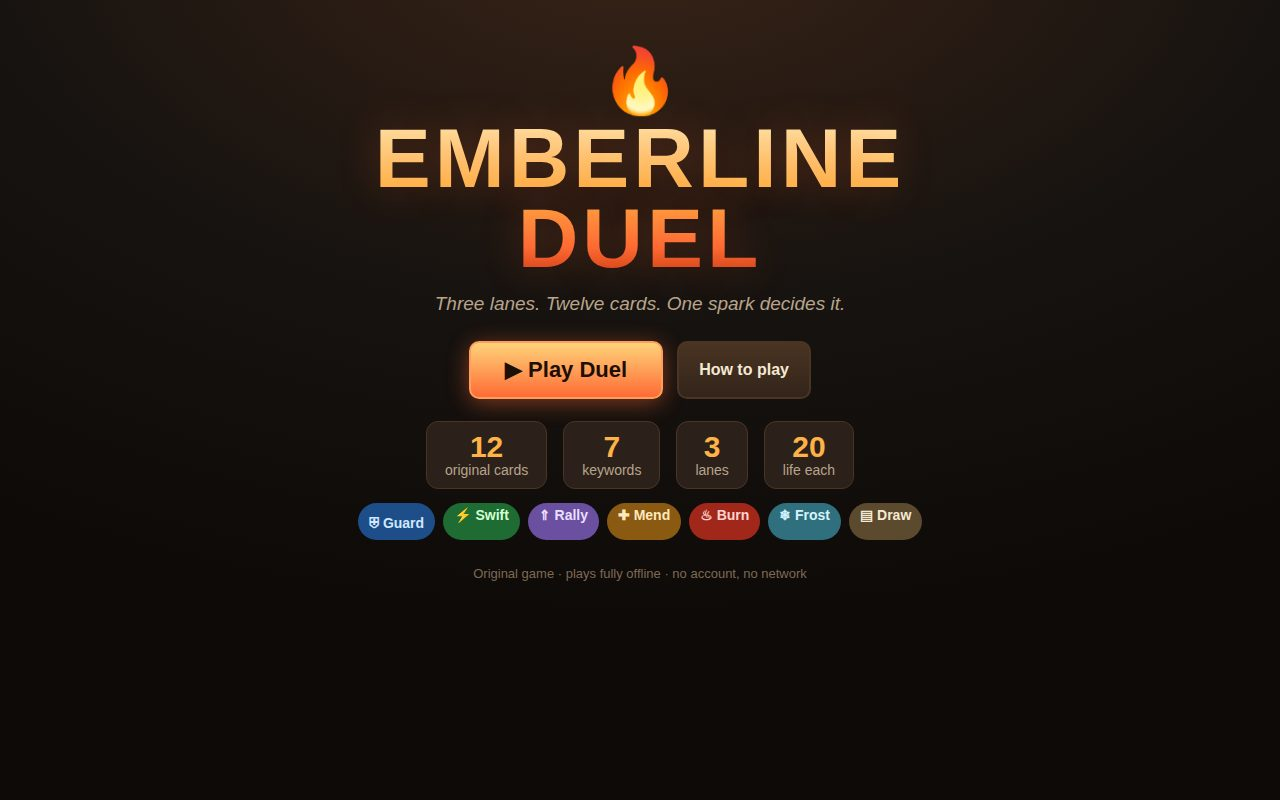
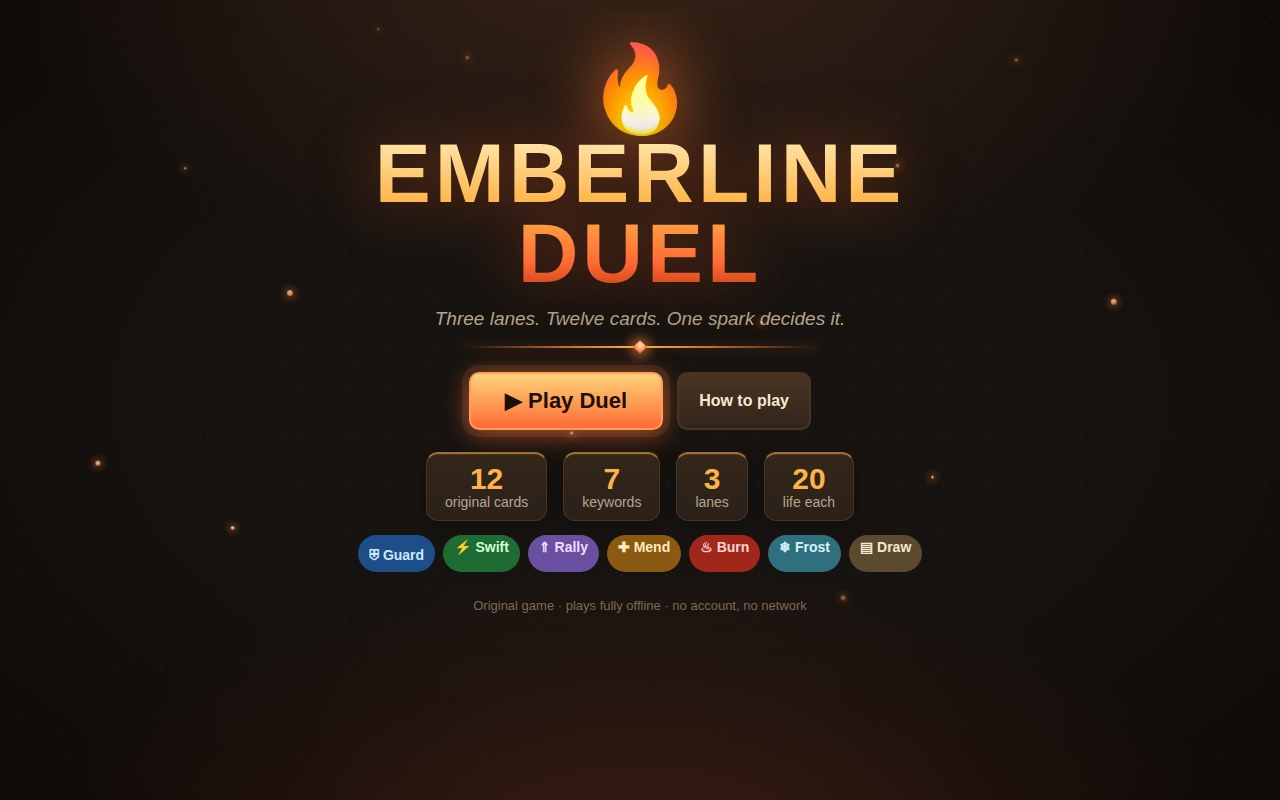
v2 visual polish: life bars + ember pips, framed lanes, keyword card glows, ember title field
Screenshot-only upgrade for the pairwise AI judge: HUD life bars and
ember pips read at a glance, board lanes are solid framed rows with
per-row tints, board creatures glow in their keyword colour, card
faces gain accent strips and richer art, the title screen gets a
rising ember spark field, a glowing ember-line flourish and a pulsing
Play button, and the win/loss screens get themed ambient glows.
No rules, balance, cards or features changed; fully offline.

diff --git a/game/css/style.css b/game/css/style.css
@@ -20,7 +20,18 @@
 }
 html, body { height: 100%; }
 body {
-  background: radial-gradient(1200px 700px at 50% -10%, #3a2417 0%, var(--felt) 55%, #0e0a08 100%);
+  /* Layered hearth atmosphere: warm crown glow up top, a coal-bed glow
+     rising from the bottom edge, and a faint field of ember flecks over
+     the felt — all gradients, no images, no network. */
+  background:
+    radial-gradient(1200px 700px at 50% -10%, #3a2417 0%, transparent 55%),
+    radial-gradient(900px 480px at 50% 112%, rgba(255, 107, 53, .20) 0%, rgba(201, 59, 18, .07) 45%, transparent 70%),
+    radial-gradient(rgba(255, 179, 71, .05) 1px, transparent 1.6px),
+    radial-gradient(rgba(255, 140, 66, .035) 1px, transparent 1.6px),
+    radial-gradient(ellipse at center, var(--felt) 40%, #0e0a08 100%);
+  background-size: auto, auto, 46px 46px, 74px 74px, auto;
+  background-position: 0 0, 0 0, 0 0, 23px 31px, 0 0;
+  background-color: var(--felt);
   color: var(--cream);
   font-family: "Trebuchet MS", "Segoe UI", Verdana, sans-serif;
   overflow-x: hidden;
@@ -43,25 +54,62 @@ body {
   font-size: 22px; padding: 14px 34px; color: #1d0f05;
   background: linear-gradient(180deg, #ffd27a, var(--ember));
   border-color: #ff9d5c; box-shadow: 0 4px 22px rgba(255,107,53,.45);
+  animation: btnPulse 2.4s ease-in-out infinite;
+}
+@keyframes btnPulse {
+  0%, 100% { box-shadow: 0 4px 22px rgba(255,107,53,.45), 0 0 0 0 rgba(255, 157, 92, .45); }
+  50% { box-shadow: 0 4px 26px rgba(255,107,53,.65), 0 0 0 9px rgba(255, 157, 92, 0); }
 }
 .btn-end {
   font-size: 18px; padding: 10px 22px; color: #1d0f05;
   background: linear-gradient(180deg, #ffd27a, var(--ember)); border-color: #ff9d5c;
+  box-shadow: 0 4px 18px rgba(255,107,53,.40);
 }
 .btn-end:disabled { filter: grayscale(.8) brightness(.6); cursor: not-allowed; transform: none; box-shadow: none; }
 .btn-small { font-size: 13px; padding: 6px 10px; }
 
 /* ---------- title screen ---------- */
-#screen-title { text-align: center; padding-top: 34px; }
-.title-ember { font-size: 64px; animation: flicker 1.6s ease-in-out infinite; }
-@keyframes flicker { 0%,100% { transform: scale(1); filter: brightness(1); } 50% { transform: scale(1.12); filter: brightness(1.35); } }
+#screen-title { text-align: center; padding-top: 34px; position: relative; overflow: hidden; }
+/* rising ember sparks over the title — pure CSS, each mote on its own
+   track/duration/delay (negative delays so the field is already alive) */
+.ember-field { position: absolute; inset: 0; pointer-events: none; }
+.ember-field i {
+  position: absolute; bottom: -14px; left: var(--x); width: var(--s); height: var(--s);
+  border-radius: 50%;
+  background: radial-gradient(circle at 40% 35%, #ffe9b0, var(--ember) 78%);
+  box-shadow: 0 0 8px 2px rgba(255, 140, 66, .55);
+  opacity: 0; animation: sparkRise var(--t) linear infinite; animation-delay: var(--d);
+}
+@keyframes sparkRise {
+  0% { transform: translate3d(0, 0, 0); opacity: 0; }
+  8% { opacity: .95; }
+  55% { transform: translate3d(10px, -46vh, 0); opacity: .8; }
+  100% { transform: translate3d(-8px, -92vh, 0); opacity: 0; }
+}
+.title-ember {
+  font-size: 76px; animation: flicker 1.6s ease-in-out infinite;
+  filter: drop-shadow(0 0 22px rgba(255, 120, 50, .65));
+}
+@keyframes flicker { 0%,100% { transform: scale(1); filter: brightness(1) drop-shadow(0 0 18px rgba(255,120,50,.55)); } 50% { transform: scale(1.12); filter: brightness(1.35) drop-shadow(0 0 30px rgba(255,120,50,.8)); } }
 .game-title {
   font-size: 84px; line-height: .95; letter-spacing: 4px; font-weight: 900;
   background: linear-gradient(180deg, #ffe9b0, var(--gold) 45%, var(--ember) 80%, var(--ember-deep));
   -webkit-background-clip: text; background-clip: text; color: transparent;
-  text-shadow: 0 0 42px rgba(255,107,53,.25);
+  filter: drop-shadow(0 0 26px rgba(255, 107, 53, .45)) drop-shadow(0 5px 20px rgba(0,0,0,.55));
 }
-.tagline { font-size: 19px; color: var(--muted); margin: 14px 0 26px; font-style: italic; }
+.tagline { font-size: 19px; color: var(--muted); margin: 14px 0 16px; font-style: italic; }
+/* the emberline itself: a glowing seam with a spark at its heart */
+.ember-line {
+  width: 360px; max-width: 70%; height: 2px; margin: 0 auto 24px; position: relative;
+  background: linear-gradient(90deg, transparent, rgba(255, 140, 66, .75) 30%, var(--gold) 50%, rgba(255, 140, 66, .75) 70%, transparent);
+  box-shadow: 0 0 12px rgba(255, 107, 53, .35);
+}
+.ember-line span {
+  position: absolute; left: 50%; top: 50%; width: 10px; height: 10px;
+  transform: translate(-50%, -50%) rotate(45deg);
+  background: radial-gradient(circle at 40% 35%, #ffe9b0, var(--ember) 80%);
+  box-shadow: 0 0 12px 3px rgba(255, 140, 66, .65);
+}
 .title-buttons { display: flex; gap: 14px; justify-content: center; margin-bottom: 22px; }
 .howto {
   max-width: 760px; margin: 0 auto 18px; text-align: left;
@@ -72,8 +120,10 @@ body {
 .best-line { color: var(--gold); font-weight: 700; font-size: 17px; margin-bottom: 10px; }
 .title-features { display: flex; gap: 16px; justify-content: center; margin: 6px 0 14px; flex-wrap: wrap; }
 .feature {
-  background: var(--panel); border: 1px solid var(--line); border-radius: 12px;
+  background: linear-gradient(180deg, #342619, var(--panel));
+  border: 1px solid var(--line); border-top: 2px solid rgba(255, 179, 71, .55); border-radius: 12px;
   padding: 10px 18px; font-size: 14px; color: var(--muted);
+  box-shadow: 0 4px 14px rgba(0,0,0,.35), inset 0 1px 0 rgba(255, 230, 180, .08);
 }
 .feature-num { display: block; font-size: 30px; font-weight: 900; color: var(--gold); line-height: 1; }
 .title-kws { display: flex; gap: 8px; justify-content: center; flex-wrap: wrap; margin-bottom: 18px; }
@@ -115,6 +165,31 @@ body {
 @keyframes pulse { 50% { transform: scale(1.12); } }
 .deck-row { font-size: 13px; color: var(--muted); margin-top: 2px; }
 .ember { color: var(--gold); font-weight: 900; }
+/* life bar under the big number — reads at a glance, drains left to right */
+.life-bar {
+  height: 8px; border-radius: 5px; margin-top: 5px; overflow: hidden;
+  background: rgba(0,0,0,.5); border: 1px solid rgba(255,255,255,.10);
+  box-shadow: inset 0 1px 3px rgba(0,0,0,.7);
+}
+.life-bar i {
+  display: block; height: 100%; width: 100%; border-radius: 5px;
+  transition: width .45s ease;
+}
+#ai-life-fill { background: linear-gradient(90deg, #2f6fb8, #7ec8ff); box-shadow: 0 0 8px rgba(90,169,230,.55); }
+#you-life-fill { background: linear-gradient(90deg, var(--ember-deep), var(--ember) 55%, var(--gold)); box-shadow: 0 0 8px rgba(255,140,66,.55); }
+.life-bar.low i { background: linear-gradient(90deg, #8a1f1f, var(--red)) !important; box-shadow: 0 0 8px rgba(255,90,90,.6); }
+/* ember pips: one dot per ember crystal — filled = ready, hollow = banked */
+.ember-pips { display: flex; gap: 4px; margin-top: 5px; }
+.you-panel .ember-pips { justify-content: flex-end; }
+.ember-pips .pip {
+  width: 11px; height: 11px; border-radius: 50%;
+  border: 1px solid rgba(255, 179, 71, .45); background: rgba(0,0,0,.35);
+}
+.ember-pips .pip.on {
+  background: radial-gradient(circle at 35% 30%, #ffe9b0, var(--ember) 75%);
+  border-color: #ffcf8a; box-shadow: 0 0 7px rgba(255, 140, 66, .75);
+}
+.ember-pips.small .pip { width: 8px; height: 8px; }
 .mini-hand { display: flex; gap: 3px; }
 .mini-card {
   width: 22px; height: 32px; border-radius: 4px; border: 1px solid #7a5a2e;
@@ -130,36 +205,74 @@ body {
 .phase-line { font-size: 13px; color: var(--muted); text-align: center; min-height: 18px; }
 
 /* ---------- board / lanes ---------- */
-.board { position: relative; display: flex; gap: 12px; }
+.board {
+  position: relative; display: flex; gap: 12px;
+  background:
+    radial-gradient(700px 300px at 50% 118%, rgba(255, 107, 53, .13), transparent 70%),
+    linear-gradient(180deg, rgba(43, 33, 26, .55), rgba(14, 10, 8, .35));
+  border: 1px solid #3a2a1c; border-radius: 20px; padding: 10px;
+  box-shadow: 0 10px 30px rgba(0,0,0,.45), inset 0 1px 0 rgba(255, 217, 160, .06);
+}
 .lane {
-  flex: 1; border: 2px dashed #3d2b1d; border-radius: 16px; padding: 8px;
-  background: linear-gradient(180deg, rgba(255,107,53,.05), rgba(0,0,0,.15));
+  flex: 1; border: 2px solid #4a3423; border-top: 3px solid #7a4a22; border-radius: 16px; padding: 8px;
+  background: linear-gradient(180deg, rgba(255,107,53,.07), rgba(0,0,0,.28));
+  box-shadow: inset 0 0 24px rgba(0,0,0,.35), inset 0 1px 0 rgba(255, 217, 160, .07);
   transition: border-color .15s, background .15s;
 }
+/* each row keeps its own warmth: ember, cinder, ash */
+.lane[data-lane="1"] { border-top-color: #8a3b1e; background: linear-gradient(180deg, rgba(224,82,58,.08), rgba(0,0,0,.28)); }
+.lane[data-lane="2"] { border-top-color: #6e6258; background: linear-gradient(180deg, rgba(184,165,140,.06), rgba(0,0,0,.30)); }
 .lane.targetable { border-color: var(--gold); background: rgba(255,179,71,.14); cursor: pointer; animation: laneGlow 1s ease-in-out infinite; }
 @keyframes laneGlow { 50% { box-shadow: 0 0 18px rgba(255,179,71,.35) inset; } }
-.lane-label { text-align: center; font-size: 12px; letter-spacing: 2px; font-weight: 800; color: var(--muted); margin-bottom: 6px; }
-.lane-sub { color: #7d6a55; font-weight: 400; letter-spacing: 0; }
+.lane-label { text-align: center; font-size: 12px; letter-spacing: 2px; font-weight: 800; color: #d8c8ae; margin-bottom: 6px; }
+.lane-label::before { content: "◆ "; color: var(--ember); font-size: 9px; vertical-align: 2px; }
+.lane-sub { color: #96805f; font-weight: 400; letter-spacing: 0; }
 .lane-slots { display: flex; flex-direction: column; gap: 8px; }
 .slot {
-  min-height: 148px; border-radius: 12px; display: flex; align-items: center; justify-content: center;
+  position: relative; min-height: 148px; border-radius: 12px; display: flex; align-items: center; justify-content: center;
   background: rgba(0,0,0,.22); border: 1px solid rgba(255,255,255,.05);
 }
-.slot.empty::after { content: "· empty ·"; color: #5c4a38; font-size: 13px; font-style: italic; }
+/* an empty slot is a summoning circle waiting for a creature, not a void */
+.slot.empty {
+  background: radial-gradient(ellipse 62% 58% at 50% 50%, rgba(255, 140, 66, .13), rgba(0,0,0,.28) 72%);
+  border: 1px solid rgba(255, 179, 71, .10);
+}
+.slot.empty::before {
+  content: ""; position: absolute; width: 76px; height: 76px; border-radius: 50%;
+  border: 2px dashed rgba(255, 179, 71, .28);
+  box-shadow: 0 0 18px rgba(255, 107, 53, .12) inset, 0 0 14px rgba(255, 107, 53, .08);
+}
+.slot.empty::after { content: "empty"; color: #96805f; font-size: 12px; font-style: italic; letter-spacing: 3px; position: relative; }
 
 /* ---------- cards ---------- */
 .card {
   position: relative; width: var(--card-w); height: var(--card-h);
   border-radius: 12px; padding: 8px; cursor: pointer; user-select: none;
-  background: linear-gradient(165deg, #3d2c1e, #241a12 70%);
-  border: 2px solid #6b4a2a; box-shadow: 0 4px 12px rgba(0,0,0,.55);
+  background: linear-gradient(165deg, #463322, #241a12 70%);
+  border: 2px solid #6b4a2a;
+  box-shadow: 0 4px 12px rgba(0,0,0,.55), inset 0 1px 0 rgba(255, 230, 180, .16), inset 0 -10px 18px rgba(0,0,0,.35);
   transition: transform .18s ease, box-shadow .18s ease, filter .18s;
   animation: cardIn .3s ease-out;
 }
+/* ember accent strip along the top edge, tinted by the card's keyword */
+.card::before {
+  content: ""; position: absolute; top: 4px; left: 12px; right: 12px; height: 3px; border-radius: 2px;
+  background: linear-gradient(90deg, transparent, var(--ember) 30%, var(--gold) 50%, var(--ember) 70%, transparent);
+  opacity: .85;
+}
+.card.k-guard::before { background: linear-gradient(90deg, transparent, #4a86c8, #9cc8ff, #4a86c8, transparent); }
+.card.k-swift::before { background: linear-gradient(90deg, transparent, #5cb85c, #b2f0b2, #5cb85c, transparent); }
+.card.k-rally::before { background: linear-gradient(90deg, transparent, #9b7ed9, #d3c2ff, #9b7ed9, transparent); }
+.card.k-mend::before { background: linear-gradient(90deg, transparent, #d9a441, #ffe1a1, #d9a441, transparent); }
+.card.k-burn::before { background: linear-gradient(90deg, transparent, #e0523a, #ffb0a0, #e0523a, transparent); }
+.card.k-frost::before { background: linear-gradient(90deg, transparent, #5fc4d6, #c8f4ff, #5fc4d6, transparent); }
+.card.k-draw::before { background: linear-gradient(90deg, transparent, #b8a58c, #f5e9d3, #b8a58c, transparent); }
 @keyframes cardIn { from { opacity: 0; transform: translateY(16px) scale(.92); } to { opacity: 1; transform: none; } }
 .card .art {
   height: 64px; border-radius: 8px; display: flex; align-items: center; justify-content: center;
-  font-size: 40px; margin-bottom: 6px; border: 1px solid rgba(255,255,255,.14);
+  font-size: 40px; margin-bottom: 6px; border: 1px solid rgba(255,255,255,.20);
+  box-shadow: inset 0 1px 0 rgba(255,255,255,.22), inset 0 -14px 22px rgba(0,0,0,.38), inset 0 0 18px rgba(255, 190, 100, .07);
+  text-shadow: 0 3px 12px rgba(0,0,0,.55);
 }
 .card .name { font-size: 14px; font-weight: 900; text-align: center; line-height: 1.1; min-height: 30px; }
 .card .kw-line { text-align: center; margin: 4px 0 2px; min-height: 20px; }
@@ -179,15 +292,24 @@ body {
 .card .hp { right: -9px; background: radial-gradient(circle at 35% 30%, #9be08d, #2e7d32 70%); border-color: #d2ffd2; color: #fff; }
 .card.frozen { filter: saturate(.4) brightness(.75); }
 .card.frozen::after { content: "❄ FROZEN"; position: absolute; top: 44%; left: 0; right: 0; text-align: center; color: #bfefff; font-weight: 900; font-size: 13px; text-shadow: 0 0 6px #000; }
-/* keyword-tinted card frames */
-.card.k-guard { border-color: #4a86c8; } .card.k-guard .art { background: linear-gradient(160deg, #274b73, #16283d); }
-.card.k-swift { border-color: #5cb85c; } .card.k-swift .art { background: linear-gradient(160deg, #2e6b34, #142d18); }
-.card.k-rally { border-color: #9b7ed9; } .card.k-rally .art { background: linear-gradient(160deg, #4b3670, #241a38); }
-.card.k-mend { border-color: #d9a441; } .card.k-mend .art { background: linear-gradient(160deg, #7a5a12, #3d2d08); }
-.card.k-burn { border-color: #e0523a; } .card.k-burn .art { background: linear-gradient(160deg, #7a2418, #3d1008); }
-.card.k-frost { border-color: #5fc4d6; } .card.k-frost .art { background: linear-gradient(160deg, #2f6f7e, #12303a); }
-.card.k-draw { border-color: #b8a58c; } .card.k-draw .art { background: linear-gradient(160deg, #5c4a2f, #2e2415); }
-.card.k-none .art { background: linear-gradient(160deg, #5a3a22, #2e1f12); }
+/* keyword-tinted card frames — art gets a lit top stop so faces read rich,
+   and a creature on the board glows faintly in its keyword colour */
+.card.k-guard { border-color: #4a86c8; } .card.k-guard .art { background: linear-gradient(160deg, #3a6ea8, #274b73 55%, #16283d); }
+.card.k-swift { border-color: #5cb85c; } .card.k-swift .art { background: linear-gradient(160deg, #46a04e, #2e6b34 55%, #142d18); }
+.card.k-rally { border-color: #9b7ed9; } .card.k-rally .art { background: linear-gradient(160deg, #7156ad, #4b3670 55%, #241a38); }
+.card.k-mend { border-color: #d9a441; } .card.k-mend .art { background: linear-gradient(160deg, #b0821f, #7a5a12 55%, #3d2d08); }
+.card.k-burn { border-color: #e0523a; } .card.k-burn .art { background: linear-gradient(160deg, #b23c26, #7a2418 55%, #3d1008); }
+.card.k-frost { border-color: #5fc4d6; } .card.k-frost .art { background: linear-gradient(160deg, #499cae, #2f6f7e 55%, #12303a); }
+.card.k-draw { border-color: #b8a58c; } .card.k-draw .art { background: linear-gradient(160deg, #8a7350, #5c4a2f 55%, #2e2415); }
+.card.k-none .art { background: linear-gradient(160deg, #7d5636, #5a3a22 55%, #2e1f12); }
+.slot .card.k-guard { box-shadow: 0 4px 12px rgba(0,0,0,.55), 0 0 16px rgba(74,134,200,.35); }
+.slot .card.k-swift { box-shadow: 0 4px 12px rgba(0,0,0,.55), 0 0 16px rgba(92,184,92,.35); }
+.slot .card.k-rally { box-shadow: 0 4px 12px rgba(0,0,0,.55), 0 0 16px rgba(155,126,217,.38); }
+.slot .card.k-mend { box-shadow: 0 4px 12px rgba(0,0,0,.55), 0 0 16px rgba(217,164,65,.38); }
+.slot .card.k-burn { box-shadow: 0 4px 12px rgba(0,0,0,.55), 0 0 16px rgba(224,82,58,.42); }
+.slot .card.k-frost { box-shadow: 0 4px 12px rgba(0,0,0,.55), 0 0 16px rgba(95,196,214,.38); }
+.slot .card.k-draw { box-shadow: 0 4px 12px rgba(0,0,0,.55), 0 0 16px rgba(184,165,140,.30); }
+.slot .card.k-none { box-shadow: 0 4px 12px rgba(0,0,0,.55), 0 0 14px rgba(255,140,66,.22); }
 /* hand behaviour */
 .hand .card:hover { transform: translateY(-14px) scale(1.06); box-shadow: 0 12px 24px rgba(0,0,0,.6); z-index: 5; }
 .hand .card.selected { transform: translateY(-18px) scale(1.08); border-color: var(--gold); box-shadow: 0 0 0 3px var(--gold), 0 14px 26px rgba(0,0,0,.65); }
@@ -206,8 +328,11 @@ body {
 .table-foot { display: flex; gap: 14px; margin-top: 12px; align-items: stretch; }
 .hand {
   flex: 1; min-height: 196px; display: flex; gap: 10px; align-items: flex-end; justify-content: center;
-  background: linear-gradient(180deg, rgba(0,0,0,.25), rgba(0,0,0,.05));
-  border: 1px solid var(--line); border-radius: 16px; padding: 12px;
+  background:
+    radial-gradient(600px 120px at 50% 115%, rgba(255, 107, 53, .12), transparent 70%),
+    linear-gradient(180deg, rgba(0,0,0,.25), rgba(0,0,0,.05));
+  border: 1px solid var(--line); border-top: 2px solid rgba(255, 179, 71, .35); border-radius: 16px; padding: 12px;
+  box-shadow: inset 0 10px 22px rgba(0,0,0,.30);
 }
 .hand .empty-hand { color: #7d6a55; font-style: italic; }
 .log-panel {
@@ -233,14 +358,21 @@ body {
 @keyframes floatUp { from { opacity: 1; transform: translateY(0) scale(1); } to { opacity: 0; transform: translateY(-56px) scale(1.25); } }
 
 /* ---------- end screen ---------- */
-#screen-end { text-align: center; padding-top: 60px; position: relative; overflow: hidden; }
+#screen-end { text-align: center; padding-top: 60px; position: relative; overflow: hidden; border-radius: 20px; }
+#screen-end.win { background: radial-gradient(760px 420px at 50% 20%, rgba(255, 179, 71, .17), rgba(255, 107, 53, .05) 55%, transparent 75%); }
+#screen-end.lose { background: radial-gradient(760px 420px at 50% 20%, rgba(255, 90, 90, .10), rgba(60, 20, 16, .05) 55%, transparent 75%); }
 .end-title { font-size: 96px; font-weight: 900; letter-spacing: 6px; }
-#screen-end.win .end-title { color: var(--gold); text-shadow: 0 0 50px rgba(255,179,71,.6); animation: winPop .6s ease-out; }
-#screen-end.lose .end-title { color: var(--red); text-shadow: 0 0 50px rgba(255,90,90,.5); }
+#screen-end.win .end-title { color: var(--gold); text-shadow: 0 0 50px rgba(255,179,71,.6); filter: drop-shadow(0 0 34px rgba(255, 179, 71, .35)); animation: winPop .6s ease-out; }
+#screen-end.lose .end-title { color: var(--red); text-shadow: 0 0 50px rgba(255,90,90,.5); filter: drop-shadow(0 0 26px rgba(255, 90, 90, .28)); }
 @keyframes winPop { 0% { transform: scale(.6); opacity: 0; } 60% { transform: scale(1.12); } 100% { transform: scale(1); opacity: 1; } }
 .end-sub { font-size: 19px; color: var(--muted); margin: 10px 0 28px; }
 .stats { display: flex; gap: 18px; justify-content: center; margin-bottom: 30px; }
-.stat { background: var(--panel); border: 1px solid var(--line); border-radius: 14px; padding: 16px 26px; min-width: 130px; }
+.stat {
+  background: linear-gradient(180deg, #342619, var(--panel));
+  border: 1px solid var(--line); border-top: 2px solid rgba(255, 179, 71, .55); border-radius: 14px;
+  padding: 16px 26px; min-width: 130px;
+  box-shadow: 0 4px 14px rgba(0,0,0,.35), inset 0 1px 0 rgba(255, 230, 180, .08);
+}
 .stat-num { display: block; font-size: 40px; font-weight: 900; color: var(--gold); }
 .stat-label { font-size: 13px; color: var(--muted); letter-spacing: 1px; }
 .confetti { position: absolute; inset: 0; pointer-events: none; overflow: hidden; }

diff --git a/game/index.html b/game/index.html
@@ -11,9 +11,20 @@
 
   <!-- ============ TITLE SCREEN ============ -->
   <section id="screen-title" class="screen">
+    <div class="ember-field" aria-hidden="true">
+      <i style="--x:6%;--s:5px;--t:8.5s;--d:-1.2s"></i><i style="--x:13%;--s:3px;--t:11s;--d:-6.4s"></i>
+      <i style="--x:21%;--s:6px;--t:9.4s;--d:-3.8s"></i><i style="--x:29%;--s:3px;--t:12s;--d:-9.1s"></i>
+      <i style="--x:36%;--s:4px;--t:8s;--d:-5.5s"></i><i style="--x:44%;--s:3px;--t:10.6s;--d:-2.2s"></i>
+      <i style="--x:52%;--s:6px;--t:9s;--d:-7.7s"></i><i style="--x:59%;--s:3px;--t:11.6s;--d:-4.4s"></i>
+      <i style="--x:66%;--s:5px;--t:8.8s;--d:-8.3s"></i><i style="--x:73%;--s:3px;--t:12.4s;--d:-1.9s"></i>
+      <i style="--x:80%;--s:4px;--t:9.8s;--d:-6.9s"></i><i style="--x:87%;--s:6px;--t:8.2s;--d:-3.1s"></i>
+      <i style="--x:93%;--s:3px;--t:11.2s;--d:-10.2s"></i><i style="--x:17%;--s:4px;--t:10s;--d:-0.6s"></i>
+      <i style="--x:48%;--s:3px;--t:12.8s;--d:-11.5s"></i><i style="--x:70%;--s:4px;--t:10.2s;--d:-5.9s"></i>
+    </div>
     <div class="title-ember" aria-hidden="true">🔥</div>
     <h1 class="game-title">EMBERLINE<br>DUEL</h1>
     <p class="tagline">Three lanes. Twelve cards. One spark decides it.</p>
+    <div class="ember-line" aria-hidden="true"><span></span></div>
     <div class="title-buttons">
       <button id="btn-play" class="btn btn-big">▶ Play Duel</button>
       <button id="btn-howto" class="btn">How to play</button>
@@ -62,7 +73,9 @@
         <div class="side-info">
           <div class="side-name">EMBERLORD <span class="side-tag">AI</span></div>
           <div class="life-row"><span class="life-label">LIFE</span><span id="ai-life" class="life">20</span></div>
+          <div class="life-bar" id="ai-life-bar"><i id="ai-life-fill"></i></div>
           <div class="deck-row">Deck <span id="ai-deck">21</span> · Ember <span id="ai-ember">1</span>🔥</div>
+          <div class="ember-pips small" id="ai-ember-pips" title="Emberlord's ember"></div>
         </div>
         <div id="ai-hand" class="mini-hand" title="Enemy hand (face down)"></div>
       </div>
@@ -75,7 +88,9 @@
         <div class="side-info right">
           <div class="side-name">YOU <span class="side-tag">DUELIST</span></div>
           <div class="life-row"><span class="life-label">LIFE</span><span id="you-life" class="life">20</span></div>
+          <div class="life-bar" id="you-life-bar"><i id="you-life-fill"></i></div>
           <div class="deck-row">Deck <span id="you-deck">21</span> · Ember <span id="you-ember" class="ember">1</span>🔥 / <span id="you-ember-max">1</span></div>
+          <div class="ember-pips" id="you-ember-pips" title="Your ember — one lit pip per ember ready to spend"></div>
         </div>
         <div class="portrait you-portrait" title="You">🧑🎤</div>
         <button id="btn-mute" class="btn btn-small" title="Mute (M)">🔊 Sound on</button>

diff --git a/game/js/render.js b/game/js/render.js
@@ -58,6 +58,25 @@
     $('ai-ember').textContent = s.ai.ember;
     $('you-ember').textContent = s.you.ember;
     $('you-ember-max').textContent = s.you.maxEmber;
+
+    // Life bars + ember pips: the same numbers as shapes, readable at a
+    // glance in a screenshot — bar width is life out of the 20 both
+    // duelists start with, one pip per ember crystal (lit = spendable).
+    var MAX_LIFE = 20;
+    $('ai-life-fill').style.width = Math.min(100, Math.max(0, s.ai.life) / MAX_LIFE * 100) + '%';
+    $('you-life-fill').style.width = Math.min(100, Math.max(0, s.you.life) / MAX_LIFE * 100) + '%';
+    $('ai-life-bar').classList.toggle('low', s.ai.life <= 5);
+    $('you-life-bar').classList.toggle('low', s.you.life <= 5);
+    [['ai-ember-pips', s.ai], ['you-ember-pips', s.you]].forEach(function (pair) {
+      var host = $(pair[0]);
+      var side = pair[1];
+      host.innerHTML = '';
+      for (var i = 0; i < side.maxEmber; i++) {
+        var pip = document.createElement('span');
+        pip.className = 'pip' + (i < side.ember ? ' on' : '');
+        host.appendChild(pip);
+      }
+    });
     $('turn-num').textContent = s.turn;
     var phaseText = {
       player: 'Your turn — play a card, then End Turn',
